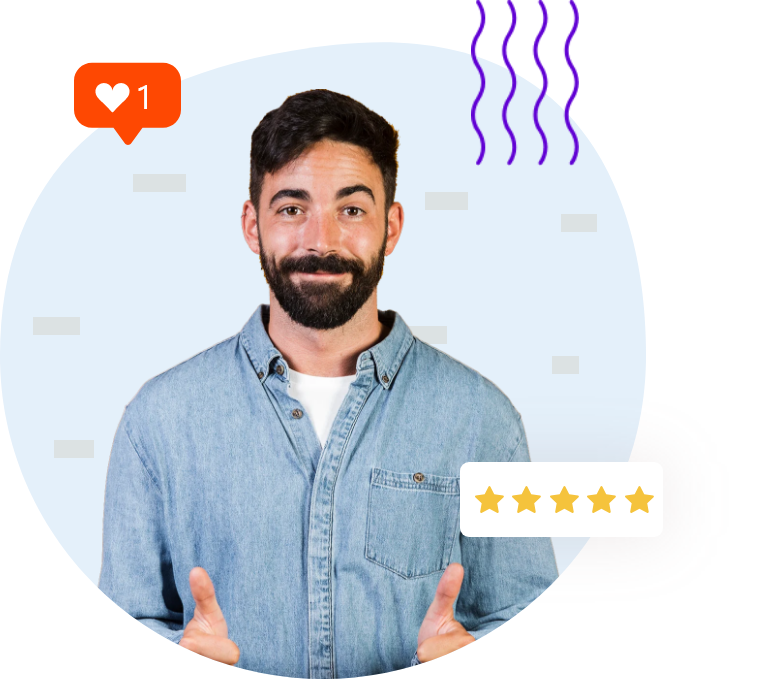
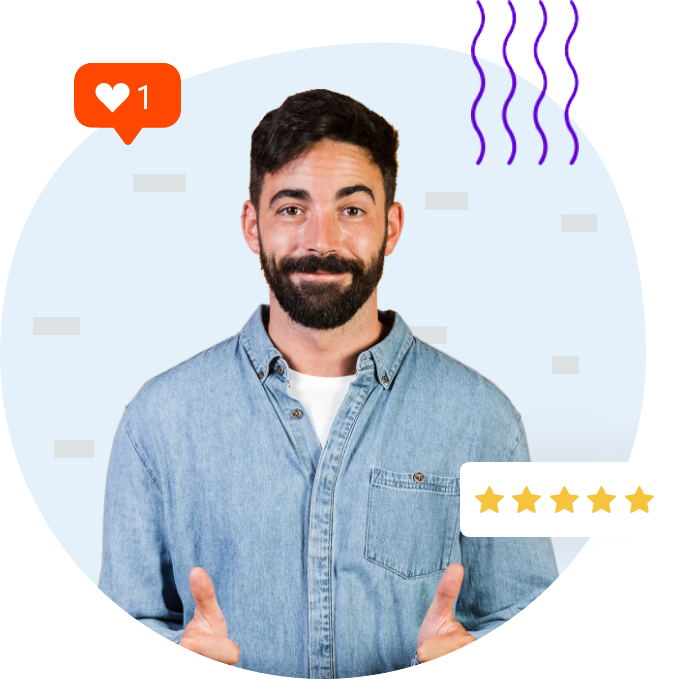
client design updated

diff --git a/src/components/ui/Client.js b/src/components/ui/Client.js
@@ -9,19 +9,19 @@ const Client = () => {
             {/* Client Review Section */}
             <div className="hero mb-10">
                 <div className="hero-content flex-col md:gap-10 lg:gap-20 lg:flex-row-reverse">
-                    <div className="w-[50%] ">
+                    <div className="w-[80%] md:w-[70%] lg:w-[50%] ">
                         <h1 className="text-red-600">Client Review</h1>
                         <p className="text-4xl font-bold py-6 hidden md:flex">Excellent Services and Obviously <br />
                             The Most Reliable One.</p>
                         <p className="text-2xl font-bold md:hidden">Excellent Services and Obviously The Most Reliable One.</p>
                         <p className="md:py-6">Lorem Ipsum is simply dummy text of the printing and typesetting industry. Lorem Ipsum has been the industry standard dummy text ever since the 1500s, when an unknown printer took a galley.</p>
                         <Link href="/about">
-                            <button className="btn bg-[#2C2CF2] text-white rounded-full md:py-4 md:px-10">Meet Our Team</button>
+                            <button className="btn bg-[#2C2CF2] text-white rounded-full md:py-4 md:px-10 my-5 w-full md:w-2/5 lg:w-1/3 border-none">Meet Our Team</button>
                         </Link>
                     </div>
-                    <Image
-                        src={CR} className='md:w-2/5 lg:pt-6 '
-                        alt="Whale Loogan" />
+                        <Image
+                            src={CR} className='w-[80%] md:w-3/5 lg:w-2/5 lg:pt-6 mx-auto'
+                            alt="Whale Loogan" />
                 </div>
             </div>
         </div>
